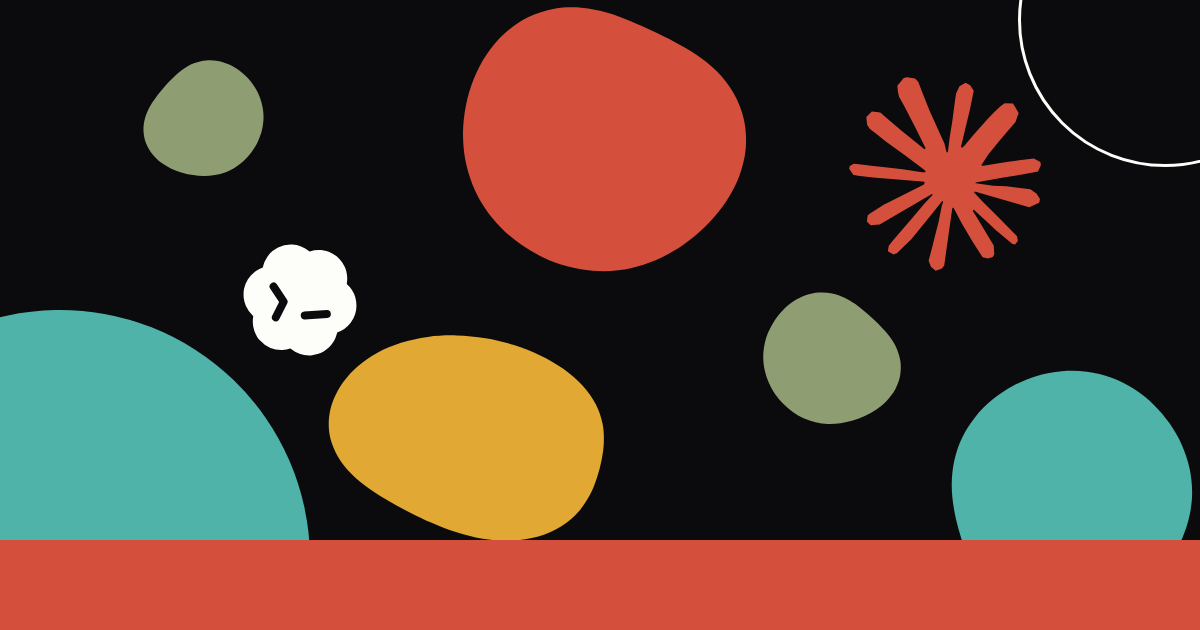
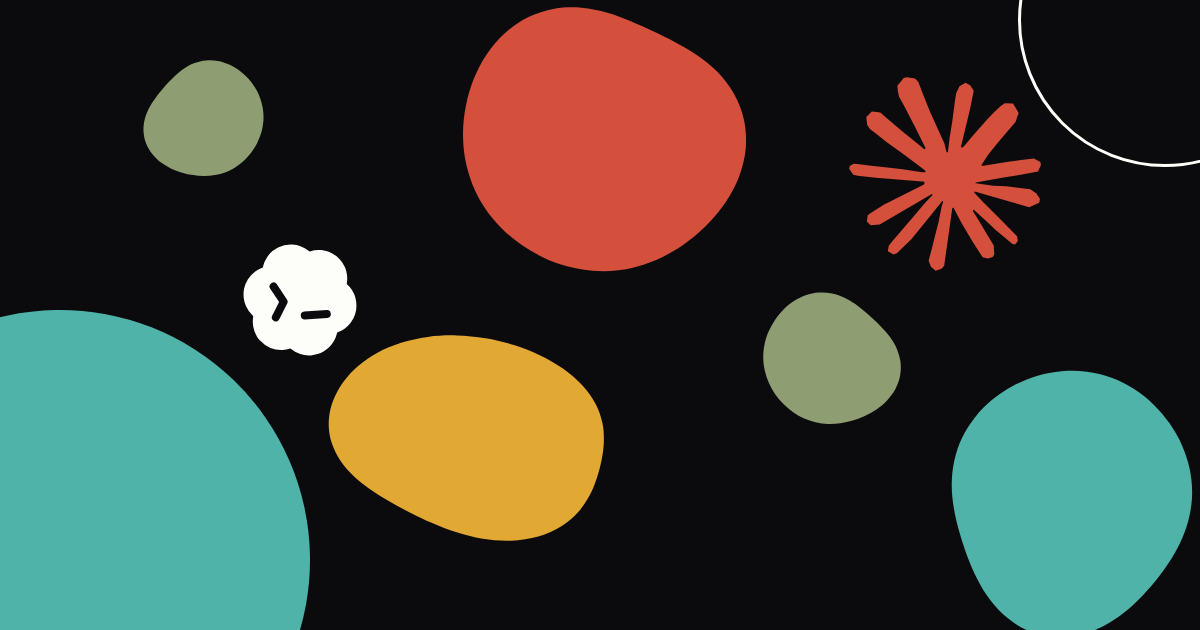
Revert "og: add a bright ground along the bottom of the cards"
This reverts commit d9d7bdb4a322102bac3c4c21d9a6655bbc59502f.

Changed region(s): [[0.0, 0.8444, 1.0, 1.0]]

diff --git a/tools/og/card.html b/tools/og/card.html
@@ -60,7 +60,6 @@
       { kind: 'pebble', x: 1070, y: 500, r: 125, c: 0 },
       { kind: 'ring', x: 1165, y: 20, r: 150 },
     ];
-    const GROUND = 90;
     const WAVES = [[2, 0.055], [3, 0.035], [4, 0.015]];
 
     function shapeSVG(spec, color, seed) {
@@ -94,12 +93,7 @@
       const flip = mirror && (spec.kind === 'claude' || spec.kind === 'codex') ? ' scale(-1 1)' : '';
       return `<g transform="translate(${spec.x} ${spec.y}) rotate(${angle.toFixed(2)})${flip}">${shapeSVG(spec, fill(spec.c ?? 0), seed)}</g>`;
     }).join('');
-    // A bright ground along the bottom, which the sun and the big pebble set
-    // behind. iMessage tints its caption bar from the image, so this is what
-    // makes the bar under the preview pop rather than come out near-black.
-    const ground = `<rect y="${630 - GROUND}" width="1200" height="${GROUND}" fill="${fill(1)}"/>`;
-    const art = (mirror ? `<g transform="translate(1200 0) scale(-1 1)">${shapes}</g>` : shapes) + ground;
-    document.getElementById('shapes').innerHTML = art;
+    document.getElementById('shapes').innerHTML = mirror ? `<g transform="translate(1200 0) scale(-1 1)">${shapes}</g>` : shapes;
     document.title = 'ready';
   </script>
 </body>
